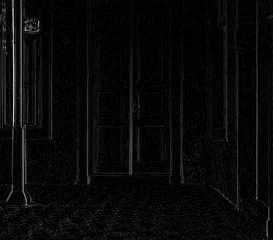
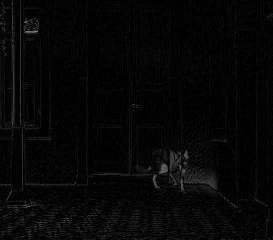
Erode alive

diff --git a/intruder_detector/main.py b/intruder_detector/main.py
@@ -5,7 +5,7 @@ from sys import argv
 
 def main():
 	imgname1='imgs/porta1pb.pnm'
-	imgname2='imgs/porta2pb.pnm'
+	imgname2='imgs/larapiopb.pnm'
 	if len(argv)>2:
 		imgname1=argv[1]
 		imgname2=argv[2]
@@ -13,7 +13,7 @@ def main():
 	print 'Subtracting...'
 	subtract(imgname1, imgname2)
 	print 'Thresholding...'
-	threshold('subtracted_image.png', 75)
+	threshold('subtracted_image.png', 50)
 	print 'Eroding...'
 	erode('thresholded_image.png')
 
